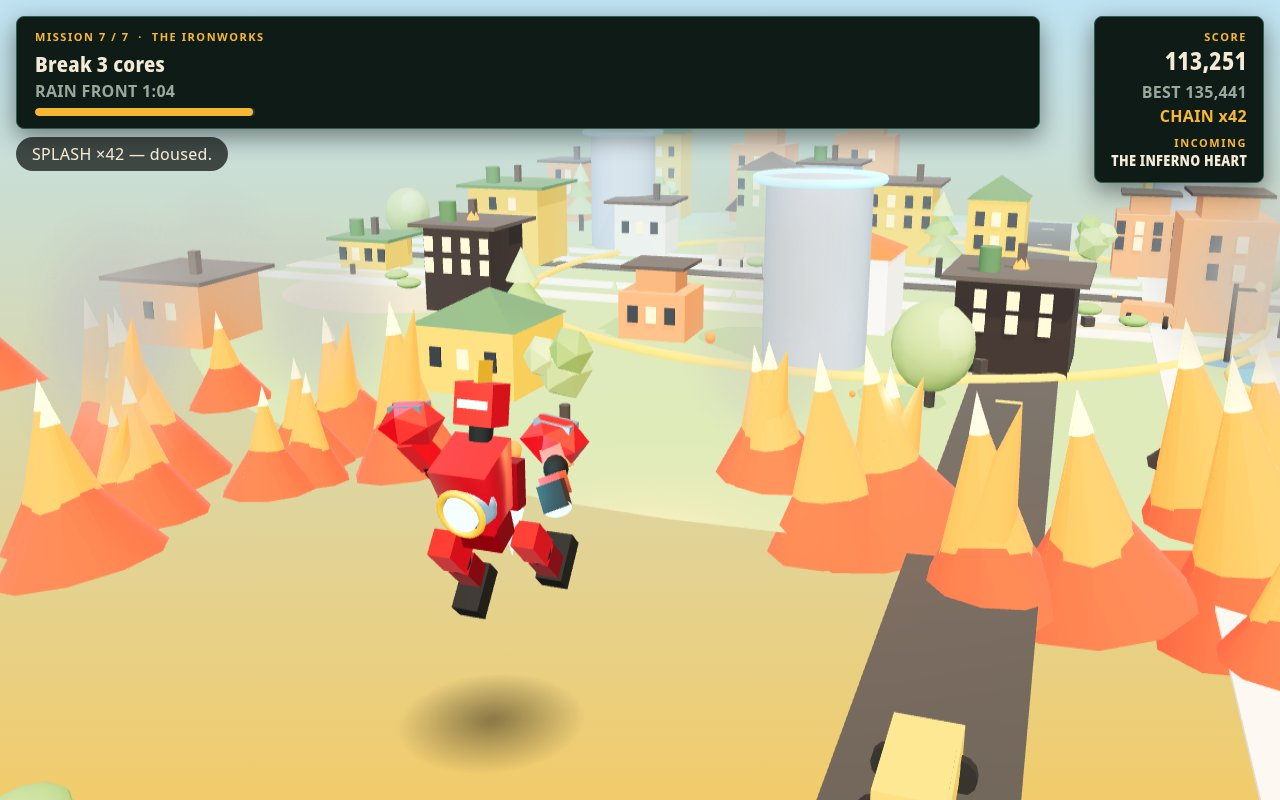
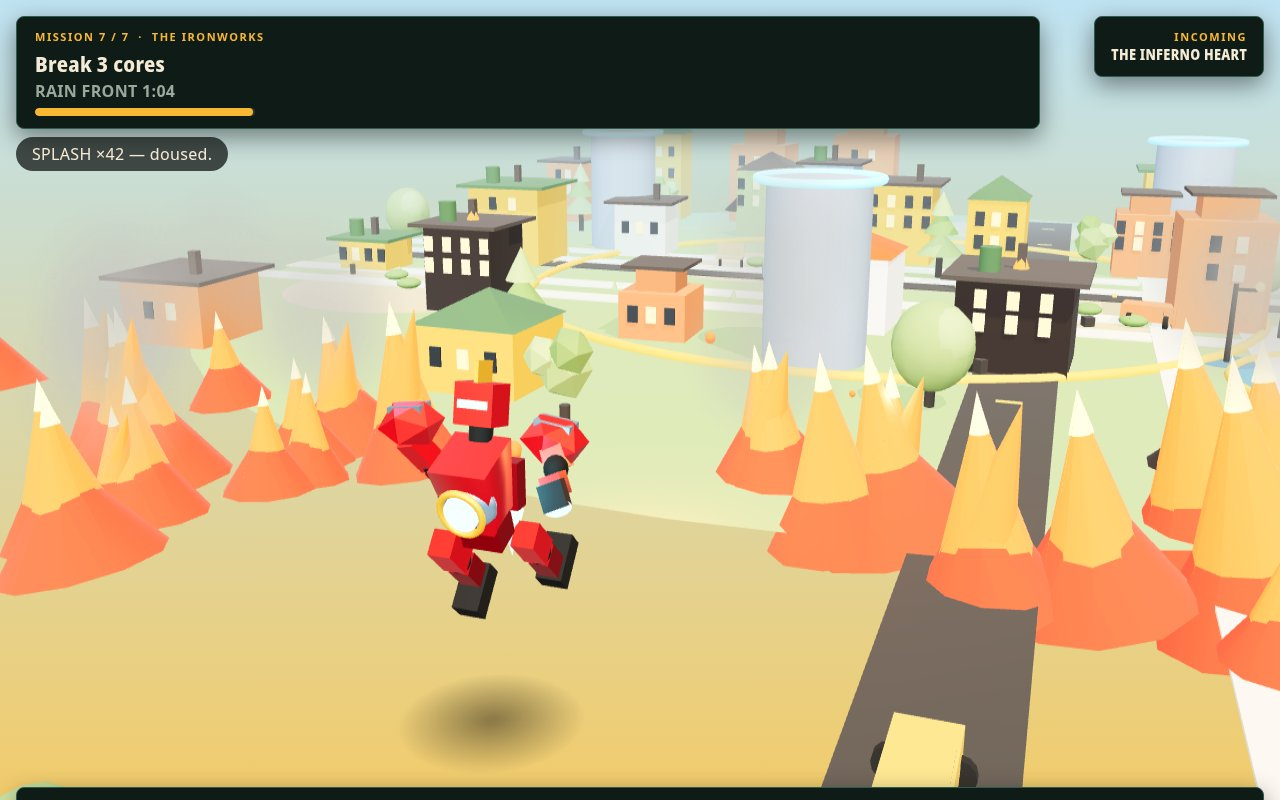
P16 direct polish (Aura, kit 13/0): score HUD to bottom bar, WASD/arrows live, finishRun WIN + run-once guard; re-captured 1-play.jpg

Changed region(s): [[0.0, 0.9688, 1.0, 1.0], [0.8438, 0.0312, 1.0, 0.25]]

diff --git a/game/src/input.js b/game/src/input.js
@@ -22,6 +22,7 @@ export function createInput(canvas) {
   let pointerHeld = false; // mouse button 0 held
   let pointer = { x: 640, y: 400 };
   let click = null;
+  let keys = { up: false, down: false, left: false, right: false };
 
   // Fit-scale: map a client pointer onto the fixed 1280x800 logical grid, the
   // same letterbox math the renderer uses so steering and clicks line up.
@@ -40,7 +41,11 @@ export function createInput(canvas) {
     if (code === 'Space') {
       blastKey = true;
       if (!event.repeat) bits |= ACTION_CONFIRM;
-    } else if (code === 'Enter') { if (!event.repeat) bits |= ACTION_CONFIRM; }
+    } else if (code === 'KeyW' || code === 'ArrowUp') keys.up = true;
+    else if (code === 'KeyS' || code === 'ArrowDown') keys.down = true;
+    else if (code === 'KeyA' || code === 'ArrowLeft') keys.left = true;
+    else if (code === 'KeyD' || code === 'ArrowRight') keys.right = true;
+    else if (code === 'Enter') { if (!event.repeat) bits |= ACTION_CONFIRM; }
     else if (code === 'KeyP' || code === 'Escape') { if (!event.repeat) bits |= ACTION_PAUSE; }
     else if (code === 'ShiftLeft' || code === 'ShiftRight') boostKey = true;
     else if (code === 'KeyQ') { if (!event.repeat) bits |= ACTION_RETARDANT; }
@@ -56,9 +61,14 @@ export function createInput(canvas) {
   window.addEventListener('keyup', (event) => {
     if (event.code === 'Space') blastKey = false;
     else if (event.code === 'ShiftLeft' || event.code === 'ShiftRight') boostKey = false;
+    else if (event.code === 'KeyW' || event.code === 'ArrowUp') keys.up = false;
+    else if (event.code === 'KeyS' || event.code === 'ArrowDown') keys.down = false;
+    else if (event.code === 'KeyA' || event.code === 'ArrowLeft') keys.left = false;
+    else if (event.code === 'KeyD' || event.code === 'ArrowRight') keys.right = false;
   });
   window.addEventListener('blur', () => {
     blastKey = false; boostKey = false; pointerHeld = false;
+    keys.up = keys.down = keys.left = keys.right = false;
   });
 
   canvas.addEventListener('pointerdown', (event) => {
@@ -95,6 +105,7 @@ export function createInput(canvas) {
     },
     isBlasting() { return blastKey || pointerHeld; },
     isBoosting() { return boostKey; },
+    keys,
     pointer() { return { x: pointer.x, y: pointer.y }; },
     worldTarget() {
       return { mx: (pointer.x - 640) * WORLD_PER_PX, mz: (pointer.y - 400) * WORLD_PER_PX };

diff --git a/game/src/render.js b/game/src/render.js
@@ -128,10 +128,7 @@ export function createRenderer(canvas) {
       '</div>';
     const panel =
       '<div class="panel" style="position:absolute;top:16px;right:16px;padding:12px 16px;text-align:right;">' +
-      '<div class="label">SCORE</div><div class="big" style="font-size:24px;">' + fmt(state.score) + '</div>' +
-      '<div class="muted" style="margin-top:4px;">BEST ' + fmt(best) + '</div>' +
-      '<div class="gold" style="margin-top:2px;">CHAIN x' + chainN + '</div>' +
-      '<div class="label" style="margin-top:8px;">INCOMING</div>' +
+      '<div class="label">INCOMING</div>' +
       '<div class="big" style="font-size:15px;">' + esc(incoming) + '</div>' +
       '</div>';
     const tankPct = pct(state.tank);
@@ -140,6 +137,11 @@ export function createRenderer(canvas) {
       '<div class="hud-zone" style="position:absolute;left:16px;right:16px;bottom:16px;">' +
       '<div class="panel" style="padding:10px 16px;">' +
       '<div style="display:flex;gap:14px;align-items:flex-end;flex-wrap:wrap;">' +
+      '<div style="min-width:130px;">' +
+      '<div class="label">SCORE</div>' +
+      '<div class="big" style="font-size:22px;">' + fmt(state.score) + '</div>' +
+      '<div class="muted" style="font-size:12px;">BEST ' + fmt(best) + ' &nbsp;·&nbsp; <span class="gold">CHAIN x' + chainN + '</span></div>' +
+      '</div>' +
       '<div style="min-width:150px;">' +
       '<div class="label" style="display:flex;justify-content:space-between;"><span>TANK</span><span class="cv-num">' + Math.round(state.tank) + '/100</span></div>' +
       '<div class="bar bar--big gold" style="width:150px;"><span style="width:' + tankPct + '%;"></span></div>' +

diff --git a/game/src/main.js b/game/src/main.js
@@ -107,6 +107,8 @@ function startRun(seed = runSeed) {
 }
 
 function finishRun() {
+  if (savedThisRun) return;
+  savedThisRun = true;
   const row = { score: world.state.score, mission: world.state.mission, result: world.state.outcome, seed: world.state.seed, time: Math.floor(world.state.runTime) };
   lastRuns.unshift(row);
   lastRuns = lastRuns.slice(0, 4);
@@ -114,7 +116,7 @@ function finishRun() {
   save = { best, lastRuns };
   persist();
   screen = SCREEN_OVER;
-  const win = world.state.outcome === 'win';
+  const win = world.state.outcome === 'WIN';
   announce(`${win ? 'THE CITY HOLDS' : 'THE FIRE TAKES THE CITY'} — season score ${world.state.score}.`);
 }
 
@@ -252,7 +254,7 @@ function step() {
     world.step(STEP * speed, {
       mx: target.mx,
       mz: target.mz,
-      keys: {},
+      keys: input.keys || {},
       blast: input.isBlasting(),
       boost: input.isBoosting(),
     });
